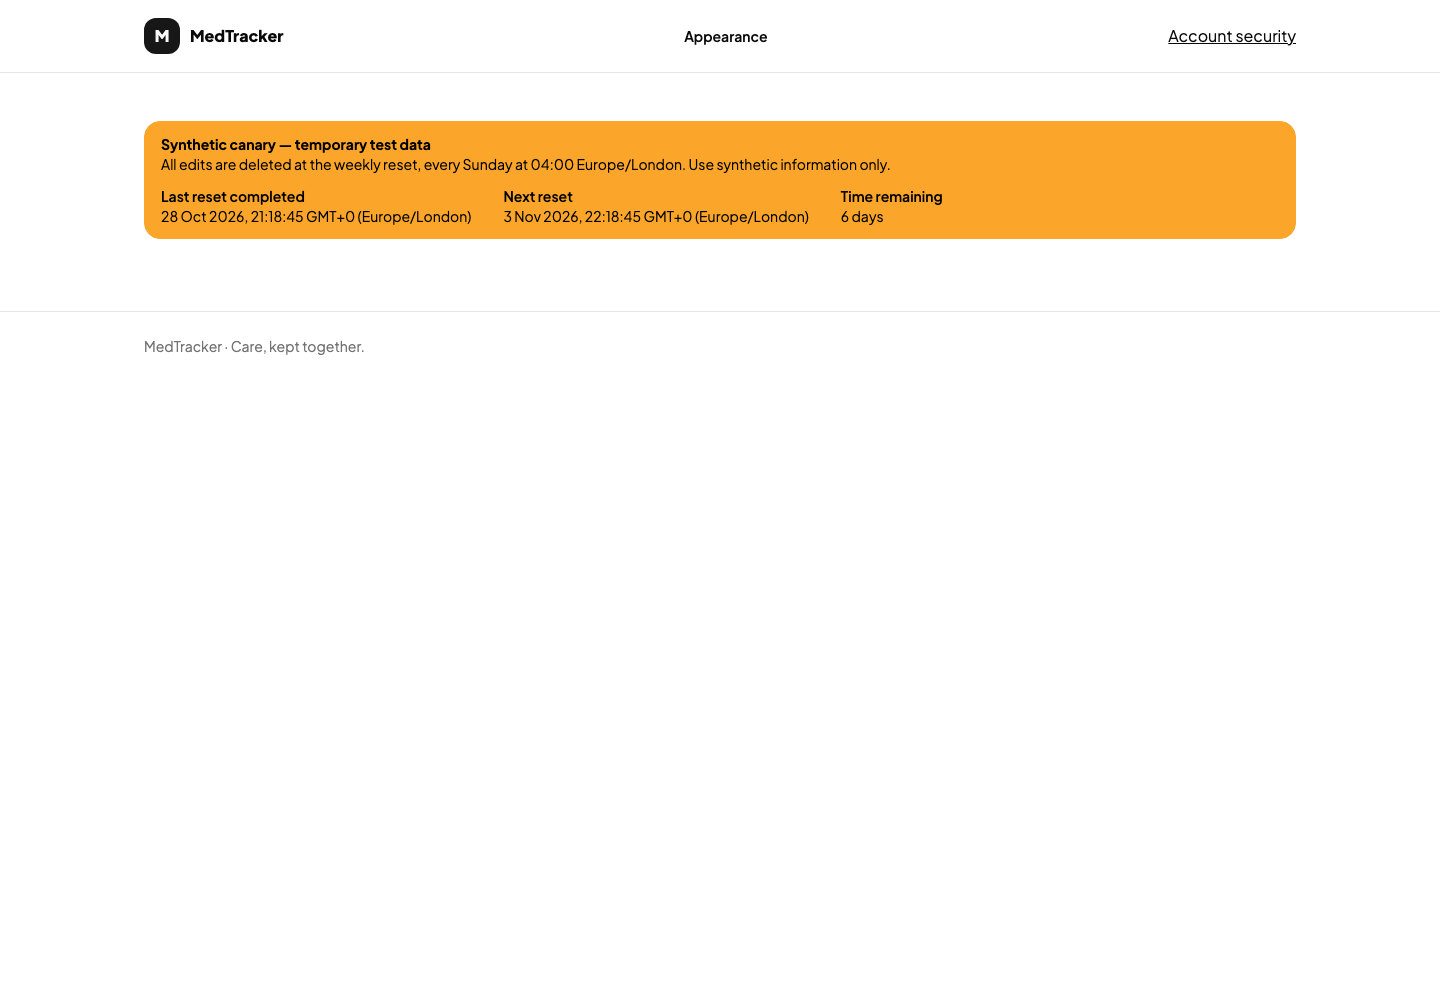
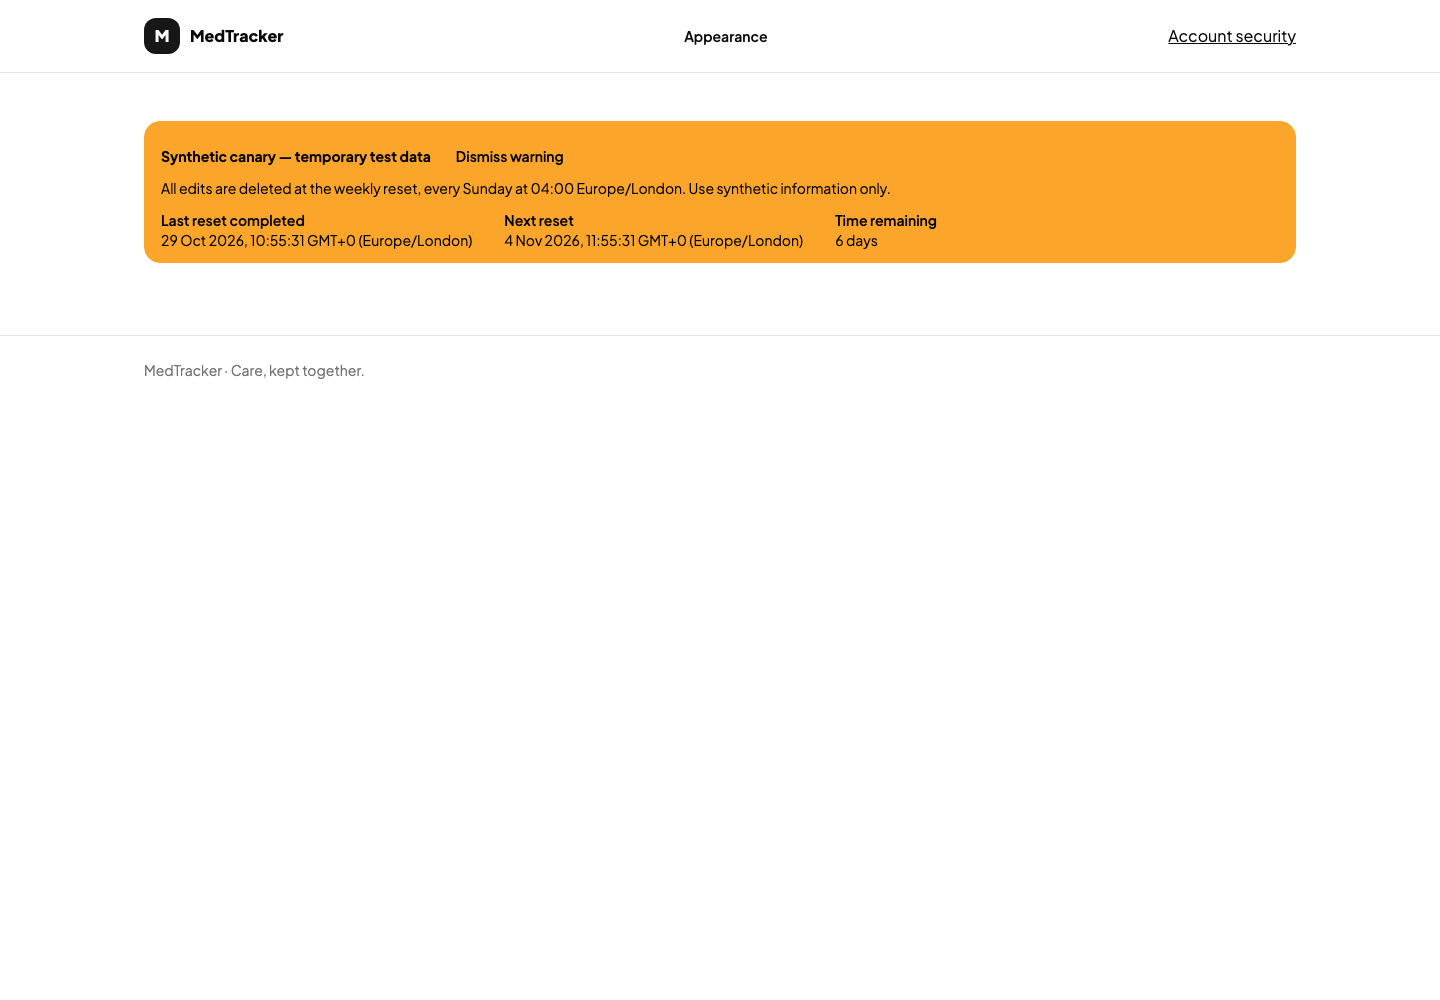
fix: allow dismissing the canary warning (#2992)

Changed region(s): [[0.0938, 0.124, 0.9062, 0.279], [0.0938, 0.341, 0.25, 0.372]]

diff --git a/assets/static/js/canary.js b/assets/static/js/canary.js
@@ -1,6 +1,20 @@
 (() => {
   const notice = document.querySelector("[data-canary-notice]");
   if (!notice) return;
+  const dismissalKey = "med-tracker-canary-dismissed";
+  try {
+    if (sessionStorage.getItem(dismissalKey) === "true") {
+      notice.hidden = true;
+      return;
+    }
+  } catch {}
+  let interval;
+  notice.querySelector("[data-canary-dismiss]").addEventListener("click", () => {
+    notice.hidden = true;
+    window.clearInterval(interval);
+    try { sessionStorage.setItem(dismissalKey, "true"); } catch {}
+    document.getElementById("main")?.focus({preventScroll: true});
+  });
   const last = notice.querySelector("[data-canary-last]");
   const next = notice.querySelector("[data-canary-next]");
   const countdown = notice.querySelector("[data-canary-countdown]");
@@ -22,6 +36,7 @@
       .map(([amount, unit]) => `${amount} ${unit}${amount === 1 ? "" : "s"}`).join(", ");
   };
   const refresh = async () => {
+    if (notice.hidden) return;
     try {
       const response = await fetch("/canary/status", {cache: "no-store", credentials: "same-origin"});
       if (!response.ok) throw new Error("Status unavailable");
@@ -36,5 +51,5 @@
     }
   };
   refresh();
-  window.setInterval(refresh, 30000);
+  interval = window.setInterval(refresh, 30000);
 })();

diff --git a/assets/views/components/canary-notice.html b/assets/views/components/canary-notice.html
@@ -1,5 +1,8 @@
 <aside class="alert alert-warning mb-6 block text-black" aria-label="Synthetic canary" lang="en-GB" data-canary-notice>
-  <p class="font-bold">Synthetic canary — temporary test data</p>
+  <div class="flex flex-wrap items-center justify-between gap-2">
+    <p class="font-bold">Synthetic canary — temporary test data</p>
+    <button type="button" class="btn btn-ghost min-h-11 text-black" data-canary-dismiss>Dismiss warning</button>
+  </div>
   <p>All edits are deleted at the weekly reset, every Sunday at 04:00 Europe/London. Use synthetic information only.</p>
   <dl class="mt-3 flex flex-wrap gap-x-8 gap-y-2 text-sm">
     <div><dt class="font-semibold">Last reset completed</dt><dd data-canary-last>Loading…</dd></div>

diff --git a/assets/static/css/app.css b/assets/static/css/app.css
@@ -9,6 +9,7 @@
 @source "../../views";
 @plugin "daisyui" { themes: false; }
 
+[data-canary-notice][hidden] { display: none; }
 body { margin: 0; font-family: var(--font-family); background: var(--background); color: var(--foreground); }
 .shell-header { border-bottom: 1px solid var(--border-color); background: var(--surface-container-lowest); }
 .shell-width { width: min(100% - 2rem, 72rem); margin-inline: auto; }

diff --git a/src/models/canary/acceptance.rs b/src/models/canary/acceptance.rs
@@ -383,8 +383,77 @@ async fn seeded_care_full_boot_gate_and_replay() {
         )
         .await
         .unwrap();
+        page.get_by_role(
+            playwright_rs::protocol::AriaRole::Button,
+            Some(
+                playwright_rs::protocol::GetByRoleOptions::default()
+                    .name("Dismiss warning")
+                    .exact(true),
+            ),
+        )
+        .press("Enter", None)
+        .await
+        .unwrap();
+        playwright_rs::expect(page.locator("[data-canary-notice]"))
+            .not()
+            .to_be_visible()
+            .await
+            .unwrap();
+        assert_eq!(
+            page.evaluate::<(), String>("() => document.activeElement.id", None)
+                .await
+                .unwrap(),
+            "main"
+        );
+        page.reload(None).await.unwrap();
+        playwright_rs::expect(page.locator("[data-canary-notice]"))
+            .not()
+            .to_be_visible()
+            .await
+            .unwrap();
+        page.goto(url.join("login").unwrap().as_ref(), None)
+            .await
+            .unwrap();
+        playwright_rs::expect(page.locator("[data-canary-notice]"))
+            .not()
+            .to_be_visible()
+            .await
+            .unwrap();
+        page.screenshot_to_file(
+            &std::path::Path::new("docs/screenshots/browser-journeys")
+                .join(format!("{name}-dismissed.png")),
+            playwright_rs::protocol::ScreenshotOptions::default(),
+        )
+        .await
+        .unwrap();
+        let fresh_tab = context.new_page().await.unwrap();
+        fresh_tab
+            .goto(url.join("__test/canary-notice").unwrap().as_ref(), None)
+            .await
+            .unwrap();
+        playwright_rs::expect(fresh_tab.locator("[data-canary-notice]"))
+            .to_be_visible()
+            .await
+            .unwrap();
         context.close().await.unwrap();
     }
+    let no_script = browser
+        .new_context_with_options(
+            playwright_rs::protocol::BrowserContextOptions::builder()
+                .javascript_enabled(false)
+                .build(),
+        )
+        .await
+        .unwrap();
+    let page = no_script.new_page().await.unwrap();
+    page.goto(url.join("__test/canary-notice").unwrap().as_ref(), None)
+        .await
+        .unwrap();
+    playwright_rs::expect(page.locator("[data-canary-notice]"))
+        .to_be_visible()
+        .await
+        .unwrap();
+    no_script.close().await.unwrap();
     browser.close().await.unwrap();
     serving.abort();
 
